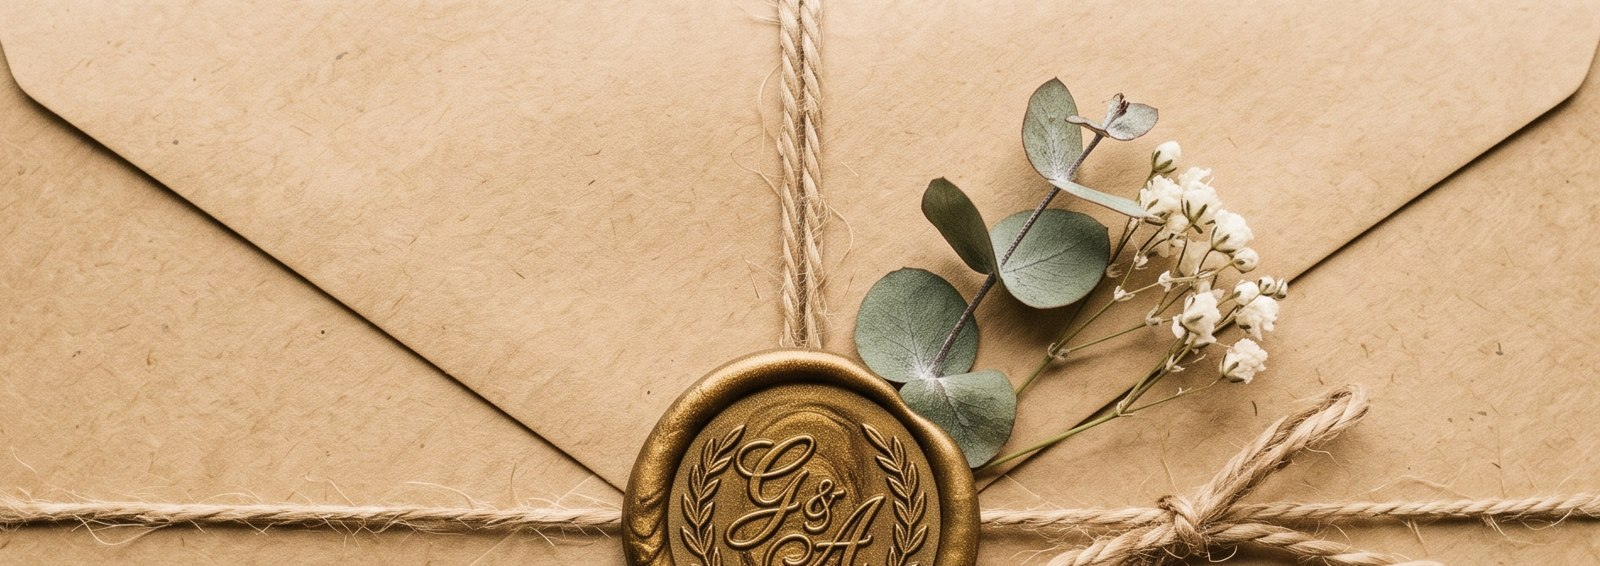
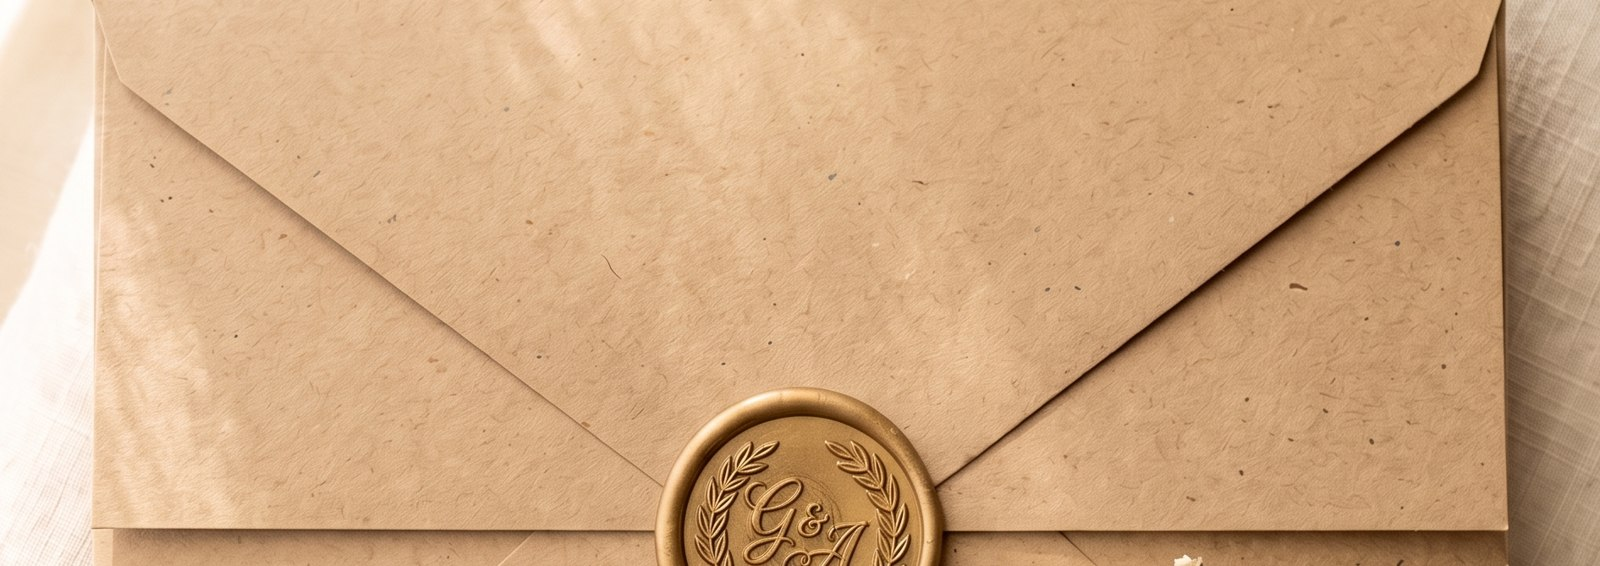
fix: physically-plausible envelope photos + letter text flies into hero
Used your real Chrome (not just the headless preview) to actually see the
render, and found two real defects a math check couldn't catch:

1. The twine/bow/sprig were baked into the rotating flap crop, so they
   visibly lifted into the air with the paper — physically wrong, and the
   single biggest reason it read as fake. Regenerated the reference photos
   with twine/sprig tied only around the lower body (never crossing the
   flap), so only bare paper (plus the seal) rotates.
2. The page silently switched to a dark theme under prefers-color-scheme,
   while the envelope photo (hardcoded light backdrop) didn't — a jarring
   seam right at the letter-opens moment. Committed the whole page to the
   single warm palette instead; a photo can't "go dark".

Also: the invitation text now appears on the letter as it opens, then
flies (FLIP: measured position/size delta, no guessing) into the real
page title as the scene fades — the copy visibly comes out of the letter
instead of the scene just dissolving into unrelated content below.

diff --git a/invitacion.html b/invitacion.html
@@ -17,11 +17,9 @@
   --rule:#cfc9ba;
   --card:#f2eee2;
 }
-@media (prefers-color-scheme: dark){
-  :root{ --putty:#1b1a17; --ink:#eee9dc; --cobalt:#7fa0d1; --cobalt-light:#a9c2e3; --olive:#a39d8c; --rule:#3a382f; --card:#242220; }
-}
-:root[data-theme="dark"]{ --putty:#1b1a17; --ink:#eee9dc; --cobalt:#7fa0d1; --cobalt-light:#a9c2e3; --olive:#a39d8c; --rule:#3a382f; --card:#242220; }
-:root[data-theme="light"]{ --putty:#e9e4d6; --ink:#201f1c; --cobalt:#2b4570; --cobalt-light:#5c7aa6; --olive:#7a7566; --rule:#cfc9ba; --card:#f2eee2; }
+/* Deliberately single-theme: the hero is a real photograph of a kraft
+   envelope, which can't "go dark" — keeping the rest of the page in the
+   same warm light palette avoids a seam right at the letter → page handoff. */
 
 html{ scroll-behavior:smooth; }
 @media (prefers-reduced-motion: reduce){
@@ -45,13 +43,25 @@ body{
 #envelope-scene{ position:relative; height:230vh; background:#e3ddce; }
 #envelope-stage{
   position:sticky; top:0; height:100vh; height:100svh; overflow:hidden;
-  display:flex; align-items:center; justify-content:center;
+  display:grid; place-items:center;
   background:#e3ddce;
 }
 .env-photo-wrap{
-  position:relative; width:min(560px,90vw); aspect-ratio:1891/1263;
+  grid-area:1/1; position:relative; width:min(560px,90vw); aspect-ratio:1891/1263;
   will-change:transform, opacity;
   perspective:1500px;
+}
+.letter-text{
+  grid-area:1/1; width:min(560px,90vw); aspect-ratio:1891/1263;
+  z-index:3; pointer-events:none; text-align:center; opacity:0;
+  display:flex; flex-direction:column; align-items:center;
+  padding-top:9%;
+  will-change:transform, opacity;
+}
+.letter-eyebrow{ font-size:9px; letter-spacing:3px; text-transform:uppercase; color:var(--cobalt); margin-bottom:3px; opacity:.85; }
+.letter-title-on-letter{
+  font-family:'Fraunces',serif; font-style:italic; font-weight:400;
+  font-size:clamp(15px,3.6vw,24px); line-height:0.95; color:var(--ink);
 }
 .env-photo{
   position:absolute; inset:0; width:100%; height:100%; object-fit:cover; border-radius:2px;
@@ -85,6 +95,7 @@ body{
   .flap-3d{ display:none; }
   .hinge-shadow{ display:none; }
   .scroll-hint{ display:none; }
+  .letter-text{ display:none; }
 }
 
 /* =====================================================
@@ -192,6 +203,10 @@ footer .fdate{ margin-top:8px; font-size:10.5px; letter-spacing:3px; color:var(-
         <img src="/photos/sobre-solapa.jpg" alt="Solapa del sobre">
         <div class="flap-shade" id="flapShade"></div>
       </div>
+    </div>
+    <div class="letter-text" id="letterText">
+      <p class="letter-eyebrow">Nos casamos</p>
+      <h1 class="letter-title-on-letter" id="letterTitle">Gian<br>&amp; Alissen</h1>
     </div>
     <p class="scroll-hint"><span>Desliza para abrir</span><span class="stem"></span></p>
   </div>
@@ -390,9 +405,37 @@ footer .fdate{ margin-top:8px; font-size:10.5px; letter-spacing:3px; color:var(-
   var flap = document.getElementById('flap3d');
   var flapShade = document.getElementById('flapShade');
   var hingeShadow = document.getElementById('hingeShadow');
+  var letterText = document.getElementById('letterText');
+  var letterTitle = document.getElementById('letterTitle');
+  var heroTitle = document.querySelector('.masthead-title');
 
   function clamp(v, a, b){ return Math.max(a, Math.min(b, v)); }
   function smoothstep(v, lo, hi){ var t = clamp((v - lo) / (hi - lo), 0, 1); return t * t * (3 - 2 * t); }
+
+  /* FLIP setup: measure once (untransformed) how far the on-letter title
+     sits from the real page title it hands off to, so the text can travel
+     that exact distance as the envelope opens — it visually grows out of
+     the letter instead of just cross-fading with a separate heading. */
+  var flip = null;
+  function computeFlip(){
+    if(!letterTitle || !heroTitle || !scene) return;
+    var was = letterText.style.transform;
+    letterText.style.transform = 'none';
+    var lRect = letterTitle.getBoundingClientRect();
+    letterText.style.transform = was;
+    var hRect = heroTitle.getBoundingClientRect();
+    var heroAbsTop = hRect.top + window.scrollY;
+    var total0 = scene.offsetHeight - window.innerHeight;
+    var sceneEndScrollY = scene.offsetTop + total0;
+    var heroTopAtSceneEnd = heroAbsTop - sceneEndScrollY;
+    flip = {
+      dx: (hRect.left + hRect.width / 2) - (lRect.left + lRect.width / 2),
+      dy: (heroTopAtSceneEnd + hRect.height / 2) - (lRect.top + lRect.height / 2),
+      scale: hRect.width / lRect.width
+    };
+  }
+  computeFlip();
+  window.addEventListener('resize', computeFlip);
 
   var ticking = false;
   function updateScene(){
@@ -419,11 +462,24 @@ footer .fdate{ margin-top:8px; font-size:10.5px; letter-spacing:3px; color:var(-
     var hinge = smoothstep(p, 0.08, 0.20) * (1 - smoothstep(p, 0.30, 0.50));
     hingeShadow.style.opacity = hinge.toFixed(2);
 
-    var exitFade = 1 - smoothstep(p, 0.86, 0.98);
+    var exitFade = 1 - smoothstep(p, 0.70, 0.92);
     var scale = 1 + p * 0.06;
-    var lift = smoothstep(p, 0.86, 1) * -30;
+    var lift = smoothstep(p, 0.70, 1) * -30;
     wrap.style.opacity = exitFade;
     wrap.style.transform = 'scale(' + scale.toFixed(3) + ') translateY(' + lift.toFixed(1) + 'px)';
+
+    /* The invitation text appears on the letter as it opens, then — instead
+       of just fading — flies to and grows into the real page title, so the
+       information visibly comes out of the letter rather than the scene
+       simply dissolving into unrelated content underneath. */
+    var textIn = smoothstep(p, 0.34, 0.54);
+    var handoff = smoothstep(p, 0.72, 1);
+    letterText.style.opacity = (textIn * (1 - handoff)).toFixed(2);
+    if(flip){
+      var tx = flip.dx * handoff, ty = flip.dy * handoff;
+      var sc = 1 + (flip.scale - 1) * handoff;
+      letterText.style.transform = 'translate(' + tx.toFixed(1) + 'px,' + ty.toFixed(1) + 'px) scale(' + sc.toFixed(3) + ')';
+    }
 
     scene.classList.toggle('done', p > 0.05);
   }
